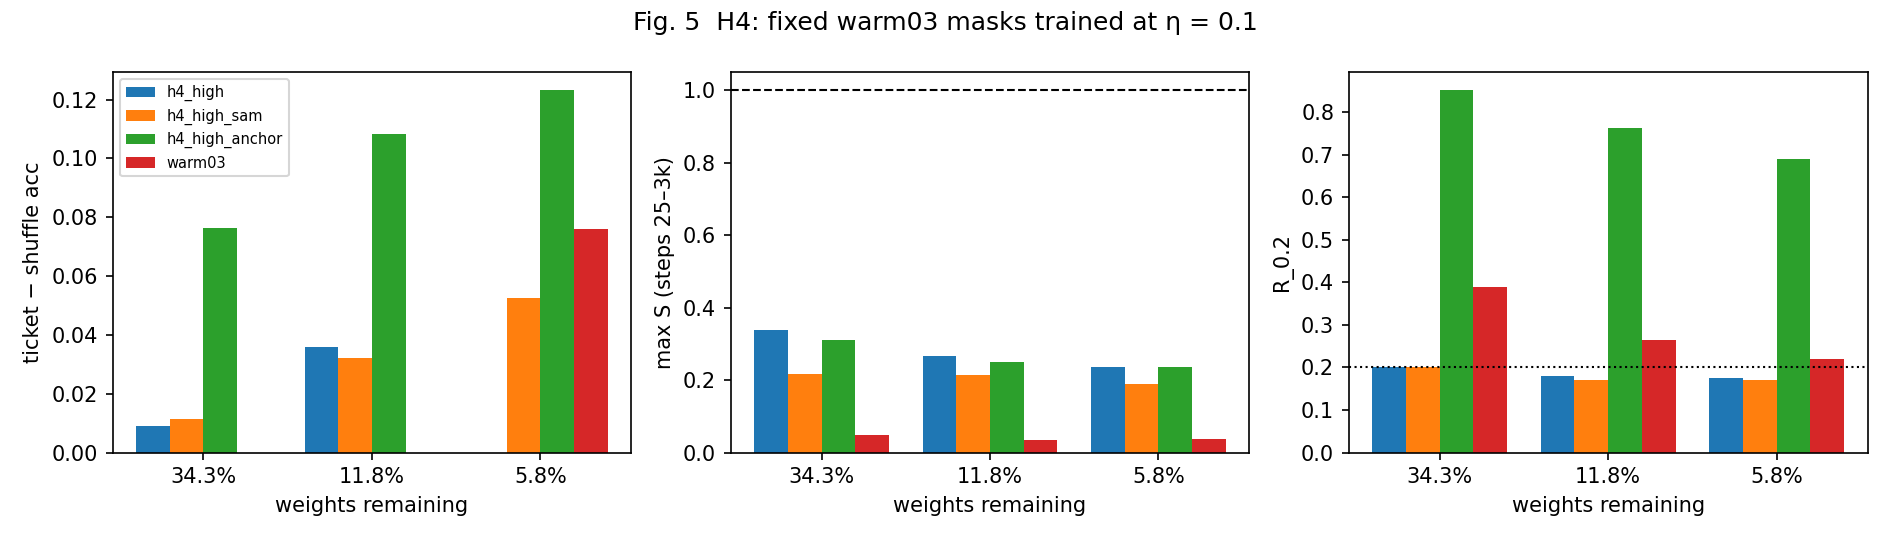
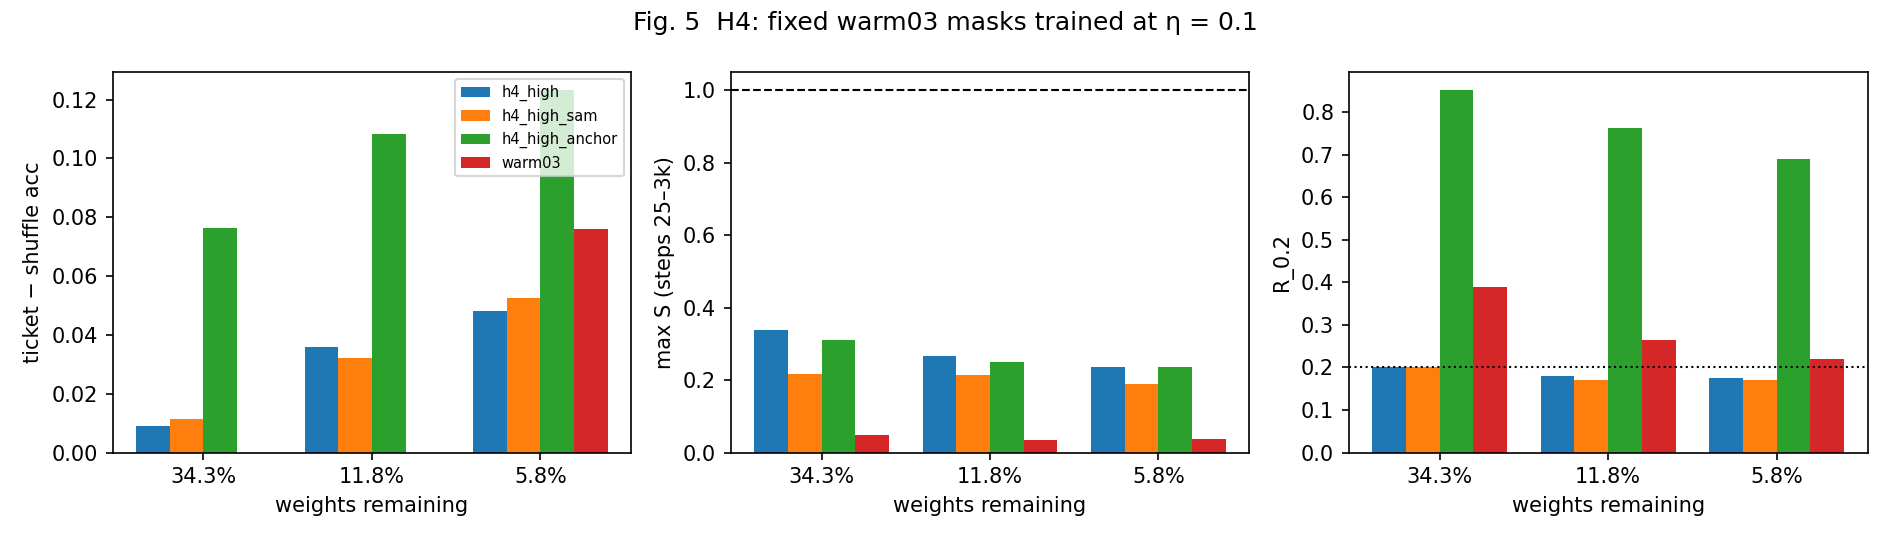
H4 complete: results + verdict in H4.md; H2_H3/PHASE_A/Methodology updated with warm03 seed 1 and H4

Changed region(s): [[0.2185, 0.1185, 0.3434, 0.3259], [0.0624, 0.1185, 0.1561, 0.3259], [0.2497, 0.563, 0.281, 0.8593]]

diff --git a/analysis/h4_tables.py b/analysis/h4_tables.py
@@ -61,8 +61,12 @@ def verdict(d: dict, k: str) -> str:
         return f"{rule} by the rule ({n_pass}/{n_done}); manipulation check pending (needs (a))"
     moved = sum((x < y) if want == "lower" else (x > y) for x, y in pairs)
     ok = moved > len(pairs) / 2
-    return (f"{rule if ok else 'inconclusive'} ({n_pass}/{n_done} masks ≥ +{RESCUE_PP} pp; "
-            f"{key} {want} than (a) at {moved}/{len(pairs)} masks)")
+    out = (f"{rule if ok else 'inconclusive'} ({n_pass}/{n_done} masks ≥ +{RESCUE_PP} pp; "
+           f"{key} {want} than (a) at {moved}/{len(pairs)} masks)")
+    a_advs = [advantage(d, "a", r) for r in ROUNDS]
+    if sum(a is not None and a >= RESCUE_PP for a in a_advs) >= RESCUE_MASKS:
+        out += "; but (a) already meets the rule, so there is no failure to rescue (H4.md §4: (b) and (c) are secondary)"
+    return out
 
 
 def main() -> None:

diff --git a/results/H4.md b/results/H4.md
@@ -1,6 +1,6 @@
-# H4 write-up (fixed masks, eta = 0.1): draft
+# H4 write-up (fixed masks, eta = 0.1)
 
-*Status: draft of 2026-10-01, 05:55 UTC, written **before any H4 result exists**. The design, the predictions and the proposed
+*Status: §1–5 drafted on 2026-10-01, 05:55 UTC, and **not changed since**; §6–7 (results, verdict) added on 2026-10-02 after all 18 runs. Original note: draft written **before any H4 result exists**. The design, the predictions and the proposed
 decision rule are fixed here first, so the results cannot shape them. The H4 runs start ≈ 07:25 UTC and end ≈ 12:30 UTC. Cells marked
 "—" are filled in when they land. All numbers will come from `results/summary.csv` (`python -m analysis.plots`, fig. 5).*
 
@@ -94,22 +94,71 @@ The spec says "rescues" without defining it. This rule was fixed before the data
 
 ## 6. Results
 
-*To fill in when the runs land (expected ≈ 12:30 UTC).*
+*Filled in on 2026-10-02, 15:50 UTC, after all 18 trainings had finished. Generated tables: `results/h4_results.md` (`python -m analysis.h4_tables`,
+also run by `analysis.plots`); figure: fig. 5. One seed (0). Accuracy is test accuracy.*
 
-| Mask | (a) plain: ticket / shuffle / adv | (b) SAM: ticket / shuffle / adv | (c) anchor: ticket / shuffle / adv |
+**Ticket / shuffle / advantage (pp):**
+
+| Mask | (a) plain | (b) SAM | (c) anchor |
 |---|---|---|---|
-| 34.5% | — | — | — |
-| 12.0% | — | — | — |
-| 6.0% | — | — | — |
+| 34.5% | 89.27 / 88.38 / +0.89 | 89.29 / 88.14 / +1.15 | 85.64 / 78.01 / +7.63 |
+| 12.0% | 88.91 / 85.32 / **+3.59** | 88.86 / 85.64 / **+3.22** | 86.19 / 75.36 / **+10.83** |
+| 6.0% | 87.24 / 82.44 / **+4.80** | 87.50 / 82.24 / **+5.26** | 84.44 / 72.12 / **+12.32** |
 
-| Mask | max S(25–3k): a / b / c | R_0.2 at 3k: a / b / c | R_0.2 final: a / b / c |
+**Tickets: max S(25–3k) / S(0) / R_0.2 at 3k / R_0.2 final:**
+
+| Mask | (a) plain | (b) SAM | (c) anchor |
 |---|---|---|---|
-| 34.5% | — | — | — |
-| 12.0% | — | — | — |
-| 6.0% | — | — | — |
+| 34.5% | 0.339 / 0.695 / 0.298 / 0.202 | 0.218 / 0.695 / 0.299 / 0.200 | 0.311 / 0.695 / 0.752 / 0.851 |
+| 12.0% | 0.267 / 0.344 / 0.224 / 0.179 | 0.214 / 0.344 / 0.212 / 0.171 | 0.249 / 0.344 / 0.630 / 0.762 |
+| 6.0% | 0.235 / 0.214 / 0.215 / 0.175 | 0.190 / 0.214 / 0.213 / 0.171 | 0.237 / 0.214 / 0.539 / 0.689 |
 
-Anchor lam chosen: — (R_0.2 at 3k for 1e-3: —, for 1e-2: —; target 0.661; reached: —).
+Anchor lam chosen: **0.01** (R_0.2 at 3k for 1e-3: 0.479, for 1e-2: 0.757; target 0.661; reached: yes, at the round-3 mask).
+At the sparser masks the same lam gives 0.630 and 0.539, below the target but well above (a).
+
+**The same masks, compared across trainings** (tickets, seed 0):
+
+| Mask | warm03 (eta 0.03 + warmup) | **(a) warm03 mask at eta 0.1** | high chain, own mask, eta 0.1 | dense high |
+|---|---|---|---|---|
+| 34.5% | 88.52% | **89.27%** | 88.36% | 89.83% |
+| 12.0% | 88.65% | **88.91%** | 85.52% | 89.83% |
+| 6.0% | 87.86% | **87.24%** | 82.72% | 89.83% |
+
+The baselines at eta 0.1 are about the same with either mask: (a)'s shuffle is 85.32% / 82.44% at 12.0% / 6.0%, against the high chain's best
+baseline of 85.13% / 82.15%. The difference lies in the tickets.
 
 ## 7. Verdict
 
-— (per section 5)
+**(a) warm03's masks still win at eta = 0.1 without warmup: +3.59 and +4.80 pp at 12.0% and 6.0% (2 of 3 masks ≥ +2.0 pp; D13).**
+By the rule in §4, decided before the data, this is the first branch: **high's failure comes from the masks IMP finds at eta = 0.1, not from how a
+good mask trains at eta = 0.1.** (b) and (c) are therefore secondary, and their "rescue" labels mean little, because in (a) there is no failure to rescue.
+
+What supports this reading:
+- **The same training run, different mask, opposite result.** At eta = 0.1 with no warmup, warm03's 6.0% mask gives 87.24%; high's own 6.0% mask gives
+  82.72% (−4.5 pp), while the shuffled baselines are equal (82.4% vs 82.2%).
+- **The early sharpness transient is present and the ticket still wins.** (a)'s max S(25–3k) is 0.24–0.34, inside the high chain's range
+  (0.17–0.54) and 6–9x warm03's at the same masks (0.036–0.043). So the transient that separates high from the winning conditions in Phase A (H2 point 2) does not prevent winning.
+- **Weight correlation is lost and the ticket still wins.** (a)'s R_0.2 is 0.18–0.20 at the end and 0.22–0.30 at step 3,000, near chance and no higher
+  than in the failing high chain (0.22–0.24). So "the ticket fails because training at eta = 0.1 decorrelates it from theta_0" (Liu et al. 2021) does not hold either.
+
+**(b) SAM** lowered max S(25–3k) below (a) at all 3 masks (0.19–0.22 vs 0.24–0.34), the manipulation check passed, and the advantage did not move:
++1.15 / +3.22 / +5.26 vs (a)'s +0.89 / +3.59 / +4.80 (differences ≤ 0.5 pp, within single-seed noise). Ticket accuracy is within 0.3 pp of (a). **Lowering
+sharpness after the first steps changes neither the ticket nor its advantage.** (As stated in §4, SAM cannot act on S(0), which is the same in every condition.)
+
+**(c) The anchor** raised R_0.2 at 3k above (a) at all 3 masks (0.54–0.75 vs 0.22–0.30), so the manipulation check passed. Its advantage is the largest
+(+7.6 to +12.3 pp), but not because the ticket improved: the anchored tickets lose 2.7–3.6 pp against (a), and the anchored shuffles lose 10.0–10.4 pp.
+Pulling the weights toward a random (shuffled) theta_0 hurts far more than pulling them toward the ticket's own theta_0. That says the ticket's
+theta_0 suits its mask, which is what the lottery ticket hypothesis claims, but **forcing correlation does not make the ticket better.**
+
+**Limits.**
+- One seed. The verdicts for (a) and (b) rest on advantages of +3.2 to +5.3 pp, 8x or more the seed-to-seed spread measured in Phase A/B (≈ 0.05–0.4 pp),
+  so they are unlikely to flip. At 34.5% the advantage is below +2.0 pp in (a) and (b); warm03's own advantage was never measured there (no baseline at round 3).
+- **(a) is a win under the D13 advantage rule, not under the section-5 winning-ticket definition.** The tickets are 0.56, 0.92 and 2.59 pp below
+  dense high (89.83%), so at eta = 0.1 even warm03's masks don't fully match the dense network. Some of the eta = 0.1 cost survives a good mask:
+  the advantage is also smaller than in warm03 itself (+3.59 vs +4.89 vs reinit at 12.0%; +4.80 vs +7.60 vs shuffle at 6.0%).
+- Only warm03's masks were tested. That high's own masks fail under SAM or warmup was not tested here (high_warm, Phase A, finds its own masks).
+
+**For H2/H3** (`results/H2_H3.md`): the causal test goes against the training-dynamics readings. A good mask wins through the same early S transient
+and the same loss of correlation that accompany the failing high chain. What differs is the mask, which brings the question to
+how IMP's pruning at eta = 0.1 picks masks (Paul et al. 2023, on what IMP masks encode). Phase A cannot tell whether the warmup's role (H3)
+is to produce good masks during IMP rather than to train a given mask better. high_warm's winning masks fit that reading, but it was not tested directly.

diff --git a/results/H2_H3.md b/results/H2_H3.md
@@ -1,7 +1,7 @@
 # H2 and H3 write-up: draft
 
-*Status: draft of 2026-10-01, 06:45 UTC. Seed 0 is complete for low, high, warm03 and high_warm. Seed 1 is complete for low and
-high (07:16 UTC), and warm03 seed 1 is running; high_warm has no seed 1. Numbers marked "s0+s1" use both seeds.
+*Status: updated 2026-10-02, 15:55 UTC. **All runs are in:** seed 0 for low, high, warm03 and high_warm, seed 1 for low, high and warm03
+(high_warm has no seed 1), and H4. Numbers marked "s0+s1" use both seeds.
 All numbers come from the run JSONs (`results/<cond>/seed<k>/`). The trajectories are in fig. 2 and the H2 plot is fig. 3
 (`python -m analysis.plots`). Definitions: `Methodology.md` section 6. H4, the causal test, is in `results/H4.md`.*
 
@@ -15,7 +15,7 @@ Points are at steps 0, 25, 50, 100, 200, then every 500 to 3,000 (D11).
 
 ### Results
 
-**1. No run comes near S = 1 during training.** Over 56 tickets and 34 baselines (s0+s1, as of 07:20 UTC), the largest max S(25–3k) is 0.54
+**1. No run comes near S = 1 during training.** Over 63 tickets and 42 baselines (s0+s1, all runs), the largest max S(25–3k) is 0.54
 (high, seed 0, 70.1%). The failing high tickets peak at 0.16–0.54, a factor of 2–6 below the threshold. As stated, H2 fails.
 
 **2. S does separate the failing condition from the winning ones, at the condition level** (tickets, s0+s1):
@@ -24,11 +24,11 @@ Points are at steps 0, 25, 50, 100, 200, then every 500 to 3,000 (D11).
 |---|---|---|---|---|
 | high | none (0/8 baseline points) | 0.16–0.54 | 0.13–0.54 | 0.09–0.17 |
 | low | 7/8 (r8 s0 is 0.53 pp below dense; r8 s1 −0.26 pp, so it counts) | 0.06–0.15 | 0.04–0.08 | 0.05–0.09 |
-| warm03 | 4/4 | 0.03–0.08 | ≤ 0.001 | ≤ 0.01 |
+| warm03 | 7/8 (r8 s1 is 0.80 pp below dense, though +5.43 pp over its baselines) | 0.03–0.08 | ≤ 0.001 | ≤ 0.01 |
 | high_warm | 3/4 | 0.05–0.09 | ≤ 0.003 | 0.02–0.05 |
 
 The ranges do not overlap: the lowest high value (0.16) is above the highest in any winning condition (0.15).
-Across all ticket runs, the Spearman correlation between max S and the ticket's gap to dense is ρ = −0.65 (n = 49, p < 1e-6).
+Across all ticket runs, the Spearman correlation between max S and the ticket's gap to dense is ρ = −0.59 (n = 56, p ≈ 2e-6).
 That correlation is entirely between conditions, though (point 4).
 
 **3. The difference is a short transient right after the start.** In high, max S(25–3k) falls at **step 25 in 15 of 18 tickets**,
@@ -40,7 +40,7 @@ Dense high seed 0: lambda_max goes from 25.5 to 6.2 within 25 steps and to ~2 by
 **4. Within a condition, S does not predict ticket quality.** Spearman ρ(max S, gap to dense) by condition, over rounds 1–8:
 - high +0.26 (n = 16);
 - low −0.38 (n = 16);
-- warm03 −0.04 (n = 9);
+- warm03 +0.19 (n = 16);
 - high_warm −0.31 (n = 8).
 
 In high, the deficit grows from −0.3 to −7.1 pp with sparsity while max S stays flat at 0.16–0.31 from 49% down.
@@ -74,8 +74,10 @@ That would need a mask where S differs and the advantage differs. H4 provides su
 - **What holds:** without warmup at eta = 0.1, the first ~200 steps run at 2–6x the S of every winning condition, and only that condition fails.
   The time window matches the early-instability story (Kalra & Barkeshli; Frankle et al. 2020 on early-training instability).
   The data, though, cannot tell a causal role for that transient apart from anything else that differs in high's first steps.
-- **Open:** H4(b) (SAM) is the planned test. SAM cannot act before the first gradient steps (`results/H4.md` §4), so it tests
-  the later, sustained part of the sharpness story better than the step-25 transient.
+- **H4 goes against a causal role** (`results/H4.md` §7). warm03's masks trained at eta = 0.1 with no warmup show the same transient
+  (max S(25–3k) 0.24–0.34, inside high's range) and still beat their shuffles by +3.6 and +4.8 pp at 12.0% and 6.0%. SAM lowers S at every
+  mask and leaves the advantage unchanged (within 0.5 pp). The transient comes with the failure in Phase A but does not cause it; the failing
+  ingredient is the mask IMP finds at eta = 0.1.
 
 ## H3: the warmup mechanism
 
@@ -114,11 +116,13 @@ starting at step ≈ 500 when its LR passes ≈ 0.005 (dense lambda_max 36.6 at 
 
 - Warmup does coincide with the return of the ticket advantage at eta = 0.1, and with the removal of the early S transient.
 - The mechanism as stated ("keeps S below 1") does not discriminate, since the failing condition is also below 1.
-- Whether the transient, rather than the correlation or the lower mean LR, is what matters is left to H4.
+- **H4 rules out both proposed mechanisms for a given mask:** a good (warm03) mask wins at eta = 0.1 without warmup, through the transient and
+  with R_0.2 near chance. So warmup is not needed to *train* a good mask. Its role in Phase A must lie in *finding* the mask during IMP (high_warm
+  finds winning masks at eta = 0.1; high does not). That reading fits the data but was not tested directly.
 
 ## To update when the remaining runs land
 
 - [x] high/low seed-1 round-8 baselines (07:16 UTC): low +6.55 pp, high +0.43 pp at 6.0%. The n's and ranges above are updated.
-- [ ] warm03 seed 1 (≈ 11:30 UTC): the warm03 rows, with error bars for warm03.
-- [ ] H4 (≈ 12:30 UTC): the open points under both verdicts.
-- [ ] Regenerate fig. 2/3 and check that every number here matches `results/summary.csv`.
+- [x] warm03 seed 1 (15:15 UTC, 10-02): advantage +2.03 / +3.56 / +4.77 / +5.43 pp (seed 0 +1.91 / +3.87 / +4.89 / +7.43); rows above updated.
+- [x] H4 (15:39 UTC, 10-02): both verdicts updated.
+- [x] fig. 2/3 regenerated (15:45 UTC). The numbers changed by the new runs were re-derived from `results/summary.csv`.

diff --git a/results/PHASE_A.md b/results/PHASE_A.md
@@ -1,7 +1,7 @@
 # Phase A write-up (seed 0): draft
 
-*Status: draft of 2026-10-01, 05:55 UTC. **Phase A is complete (60/60).** Seed 1 (Phase B) is running, so every number here is a **single run**. Treat
-differences under ~0.5 pp as noise until seed 1 is in. All numbers come from `results/summary.csv`
+*Status: draft of 2026-10-01, 05:55 UTC; seed-1 notes added through 2026-10-02. **Phase A is complete (60/60), and so is seed 1 (low, high, warm03).** The tables
+are seed 0; the two-seed comparison is in §2 ("Seed 1 agrees"). H4 results: `results/H4.md` §6–7. All numbers come from `results/summary.csv`
 (`python -m analysis.plots`); the per-run table is in `Methodology.md` section 10. Setup and definitions: `Methodology.md` sections 3–6.*
 
 ## 1. What Phase A ran
@@ -61,6 +61,8 @@ beats every baseline by 6 pp but sits 0.53 pp below dense, just outside the tole
 - **Seed 1 agrees** (low and high complete, 07:16 UTC). The seed-1 dense accuracies are within 0.3 pp of seed 0 (low 86.48%, high 89.55%).
   - **low** advantages are +2.11, +3.64, +4.70 and +6.55 pp at 49.1, 24.2, 12.0 and 6.0% (seed 0: +2.07, +3.28, +4.54, +6.00), and the 6.0% ticket is
     within tolerance this time (−0.26 pp vs dense).
+  - **warm03** (complete 10-02, 15:15 UTC; dense 87.81%) advantages are +2.03, +3.56, +4.77 and +5.43 pp (seed 0: +1.91, +3.87, +4.89, +7.43).
+    The 6.0% ticket is 0.80 pp below dense this time, so warm03 wins at 3/4 on seed 1 by the strict definition and 4/4 on the two-seed means.
   - **high** advantages are +0.15, +0.07, +0.67 and +0.43 pp, with tickets −1.02 to −7.19 pp vs dense: no winning ticket on either seed.
   - With two seeds, Gate A still passes (`results/gate_a.md`: low 4/4 with mean > 2 SE, high 0/4 winning).
 
@@ -172,9 +174,11 @@ Fig. 3 (`fig3_max_s.png`) is the H2 plot; fig. 2 (`fig2_sharpness.png`) has the 
 ## 7. Open questions handed to Phase B
 
 1. **Error bars.** Do the high advantages (+0.1 to +0.4 pp) and the high_warm wins hold on seed 1? (Seed 1 of high_warm is not in the plan.)
+   *Answered for high (yes: +0.07 to +0.67 pp, none winning) and for low/warm03 (§2).*
 2. **H4 decides between the two readings in §4 and §6.** Train warm03's masks at eta = 0.1 (a) plain, (b) with SAM, which lowers sharpness, and
    (c) with an L2 anchor to theta_0, which raises R_p. If SAM rescues the ticket and the anchor does not, that supports sharpness, in the weak
    "early transient" form of §4.
+   *Answered (`results/H4.md` §7): neither. warm03's masks win at eta = 0.1 without any intervention, so high's failure lies in the masks IMP finds.*
 3. **The first 200 steps are under-sampled** (4 points). If H4 points to sharpness, a denser early schedule on a few runs is the
    cheapest follow-up. Any such follow-up needs budget approval.
 

diff --git a/Methodology.md b/Methodology.md
@@ -142,12 +142,12 @@ collapse rather than a systematic ticket deficit (F1, F2).
 | 1 | Code + tests (23 tests pass on the T4) | **done** |
 | 2 | Benchmark / smoke run on the T4: ~9 min per 15k training, 2.46 GB peak VRAM; budget re-derived | **done** (session 2) |
 | 3a | Phase A: `low` seed 0 (15 trainings) | **done** (session 4, 09:05 UTC) |
-| 3b | Phase A: `high`, `warm03` seed 0 (15 each), in parallel with `low` under MPS | high **15/15, done** (05:53 UTC, session 5); warm03 **14/15** (r8 shuffle running) |
-| 3b' | Phase A: `high_warm` seed 0 (15) | **8/15** at 07:25 UTC (session 5), in parallel with the seed-1 chains |
+| 3b | Phase A: `high`, `warm03` seed 0 (15 each), in parallel with `low` under MPS | **done** (session 5) |
+| 3b' | Phase A: `high_warm` seed 0 (15) | **done** (2026-10-01, 05:55 UTC) |
 | 3c | Conv-4 chain at eta = 0.1 with the full S(t) trajectory | optional; needs `pilot/data/*.gz` on Drive (O8) |
 | 4 | **Gate A:** the ticket beats trained baselines at ≥ 3 sparsities for `low` and `warm03`, and not for `high` (`results/gate_a.md`). If it fails, stop and write up why | **PASSED on seed 0, final for the three gate conditions** (low 4/4, warm03 4/4, high 0/4 winning tickets, D12) |
-| 5 | Phase B: seed 1 of `low`, `high` and `warm03` (error bars) | **running** (session 5): low s1 2/15, high s1 3/15 at 07:25 UTC; warm03 s1 starts when high_warm ends |
-| 6 | Phase B: H4 (lam selection, then 3 conditions × 3 masks × ticket + shuffle) | pending |
+| 5 | Phase B: seed 1 of `low`, `high` and `warm03` (error bars) | **done** (low/high 2026-10-01 07:17 UTC, warm03 2026-10-02 15:15 UTC) |
+| 6 | Phase B: H4 (lam selection, then 3 conditions × 3 masks × ticket + shuffle) | **done** (2026-10-02 15:39 UTC); lam = 0.01; `results/H4.md` §6–7, `results/h4_results.md` |
 | 7 | Analysis: `python -m analysis.plots` → summary.csv, figs 1–5, metrics table, gate_a.md | script ready; re-run every 15 min by the autosave |
 | 8 | `results/FINDINGS.md`: verdict + numbers for H1–H4; final report | pending |
 

diff --git a/results/h4_results.md b/results/h4_results.md
@@ -6,7 +6,7 @@ Test accuracy %, ticket / shuffle / advantage (pp).
 |---|---|---|---|
 | 34.5% | 89.27 / 88.38 / +0.89 | 89.29 / 88.14 / +1.15 | 85.64 / 78.01 / +7.63 |
 | 12.0% | 88.91 / 85.32 / +3.59 | 88.86 / 85.64 / +3.22 | 86.19 / 75.36 / +10.83 |
-| 6.0% | 87.24 / — / — | 87.50 / 82.24 / +5.26 | 84.44 / 72.12 / +12.32 |
+| 6.0% | 87.24 / 82.44 / +4.80 | 87.50 / 82.24 / +5.26 | 84.44 / 72.12 / +12.32 |
 
 Tickets: max S(25–3k) / S(0) / R_0.2 at 3k / R_0.2 final, for (a) | (b) | (c).
 
@@ -20,6 +20,6 @@ Anchor lam chosen: 0.01 (R_0.2 at 3k: lam 0.001 → 0.479, lam 0.01 → 0.757; t
 
 ## Verdicts (D13)
 
-- **(a) h4_high**: pending (1/2 masks ≥ +2.0 pp so far)
-- **(b) h4_high_sam**: rescues (2/3 masks ≥ +2.0 pp; max_S_train lower than (a) at 3/3 masks)
-- **(c) h4_high_anchor**: rescues (3/3 masks ≥ +2.0 pp; R02_3k higher than (a) at 3/3 masks)
+- **(a) h4_high**: warm03 masks still win at η = 0.1 (2/3 masks ≥ +2.0 pp)
+- **(b) h4_high_sam**: rescues (2/3 masks ≥ +2.0 pp; max_S_train lower than (a) at 3/3 masks); but (a) already meets the rule, so there is no failure to rescue (H4.md §4: (b) and (c) are secondary)
+- **(c) h4_high_anchor**: rescues (3/3 masks ≥ +2.0 pp; R02_3k higher than (a) at 3/3 masks); but (a) already meets the rule, so there is no failure to rescue (H4.md §4: (b) and (c) are secondary)
